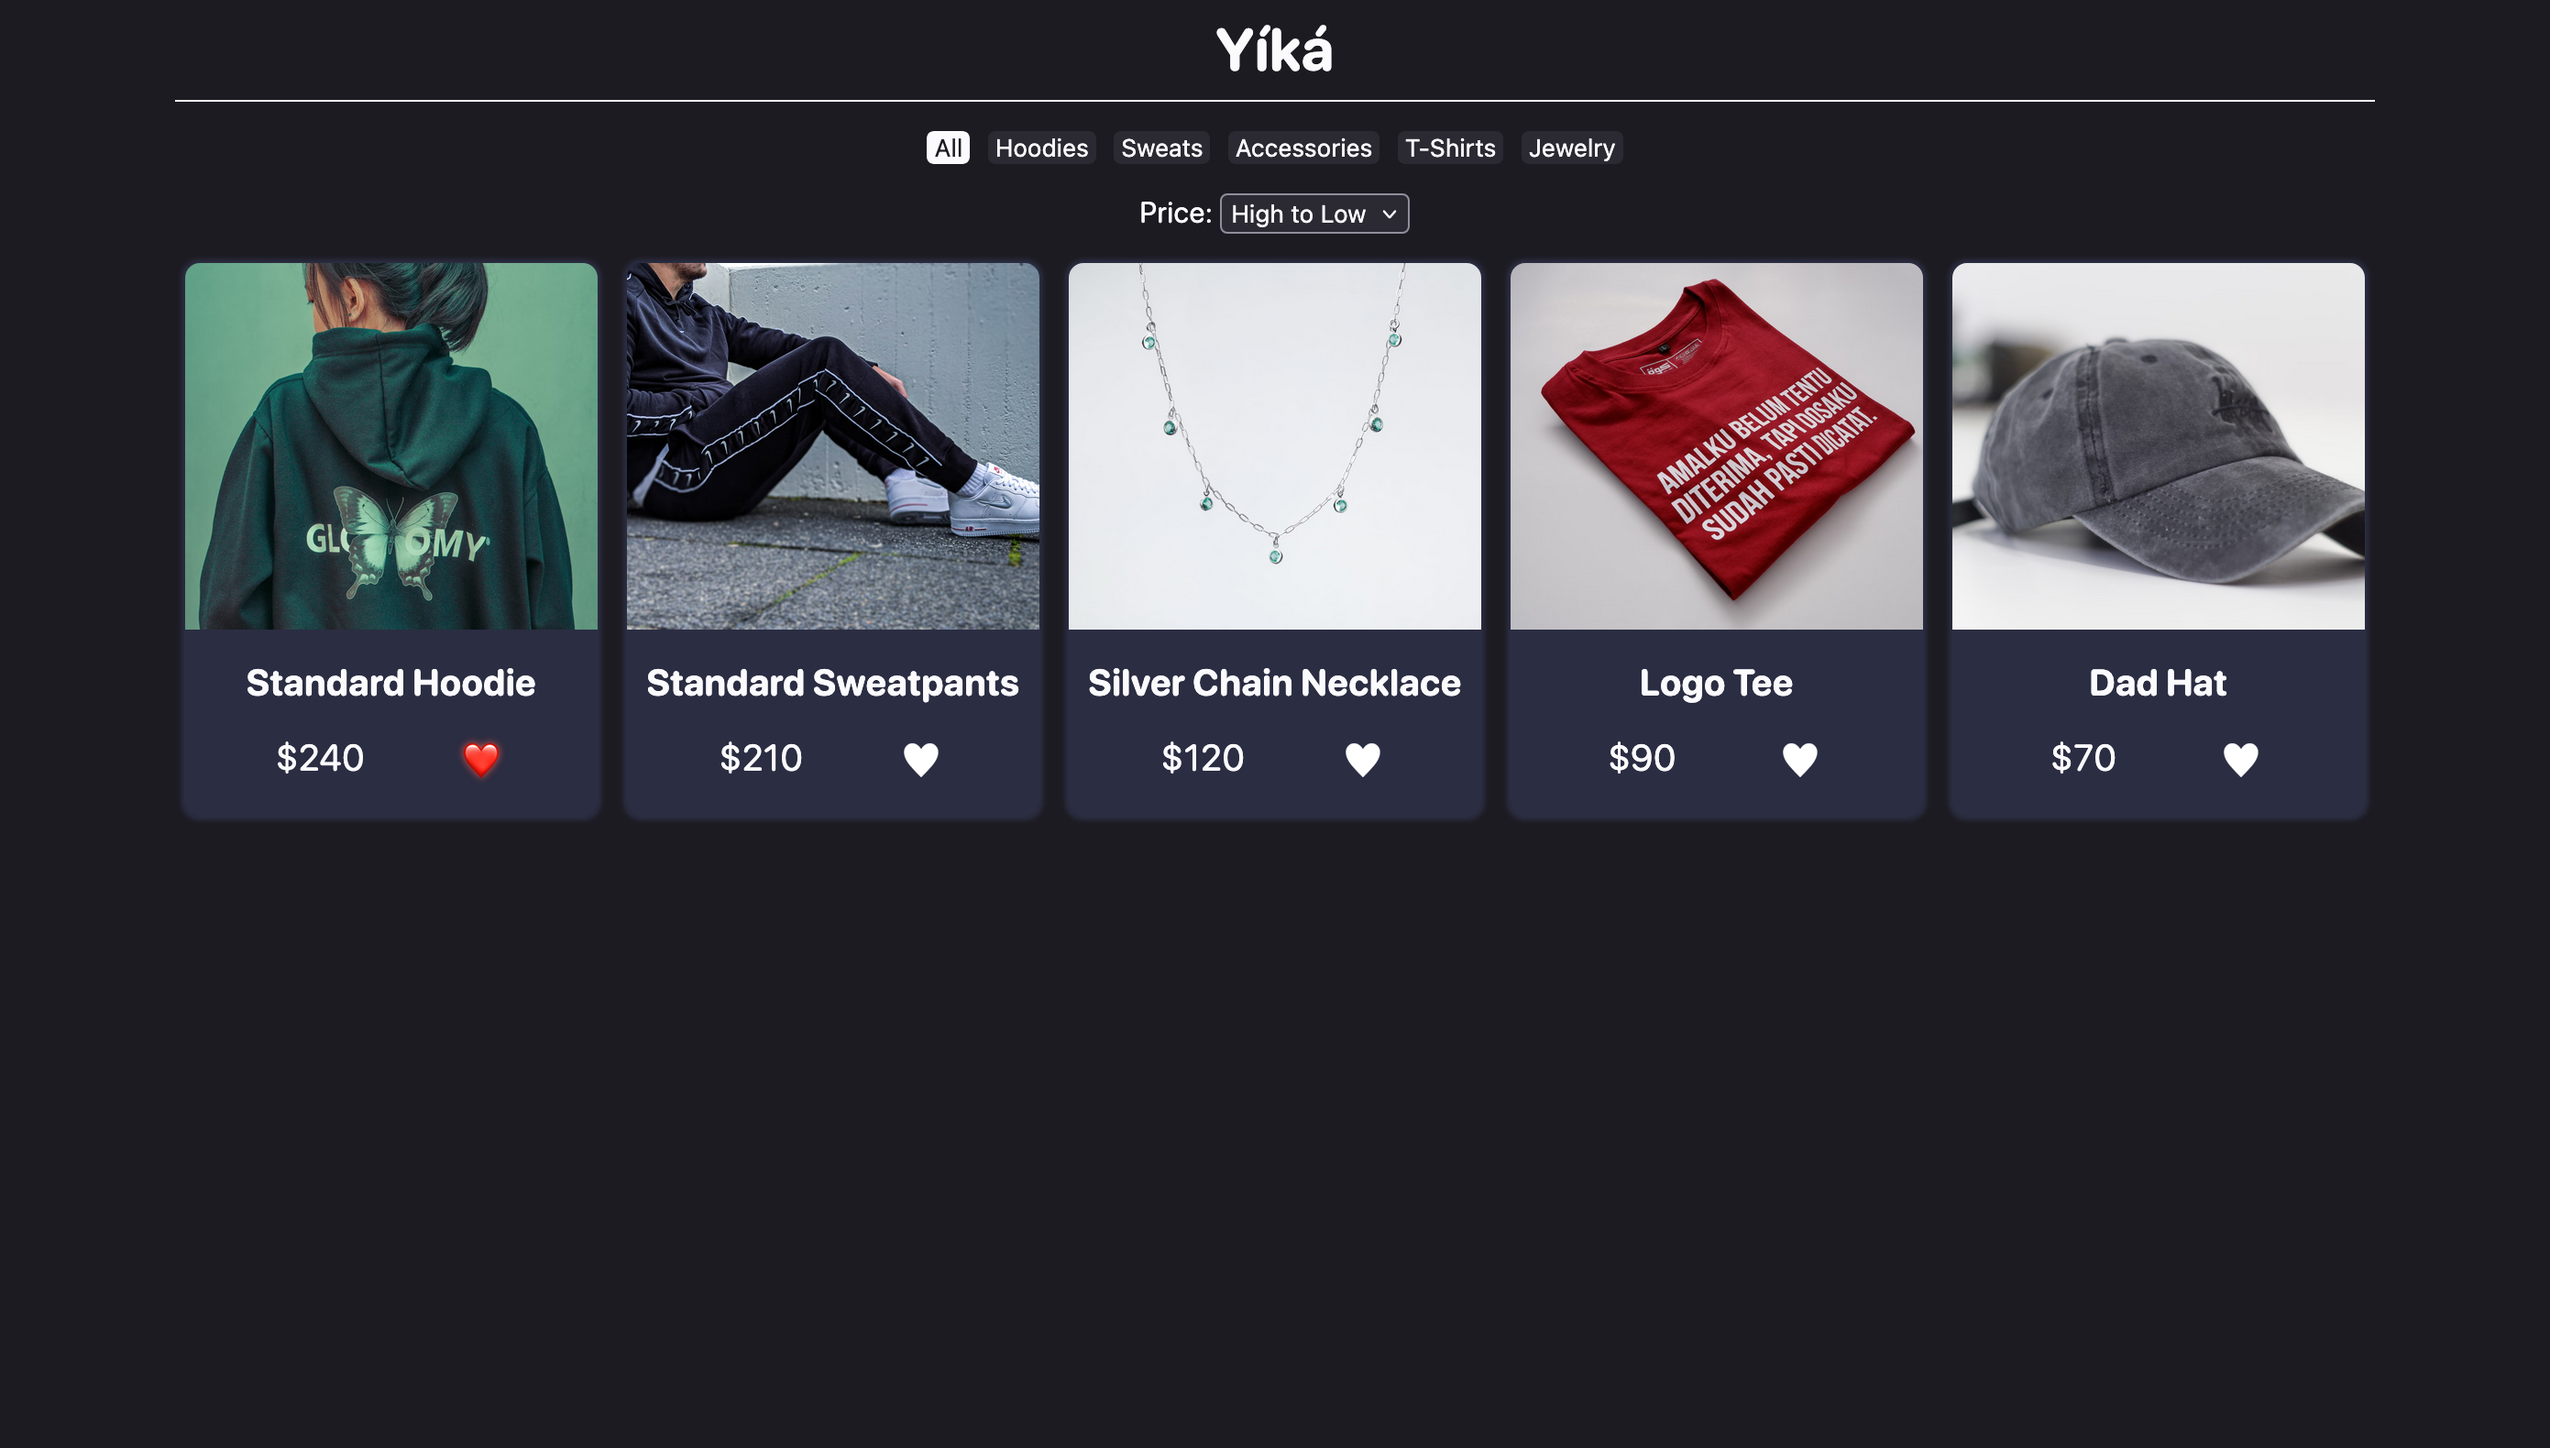
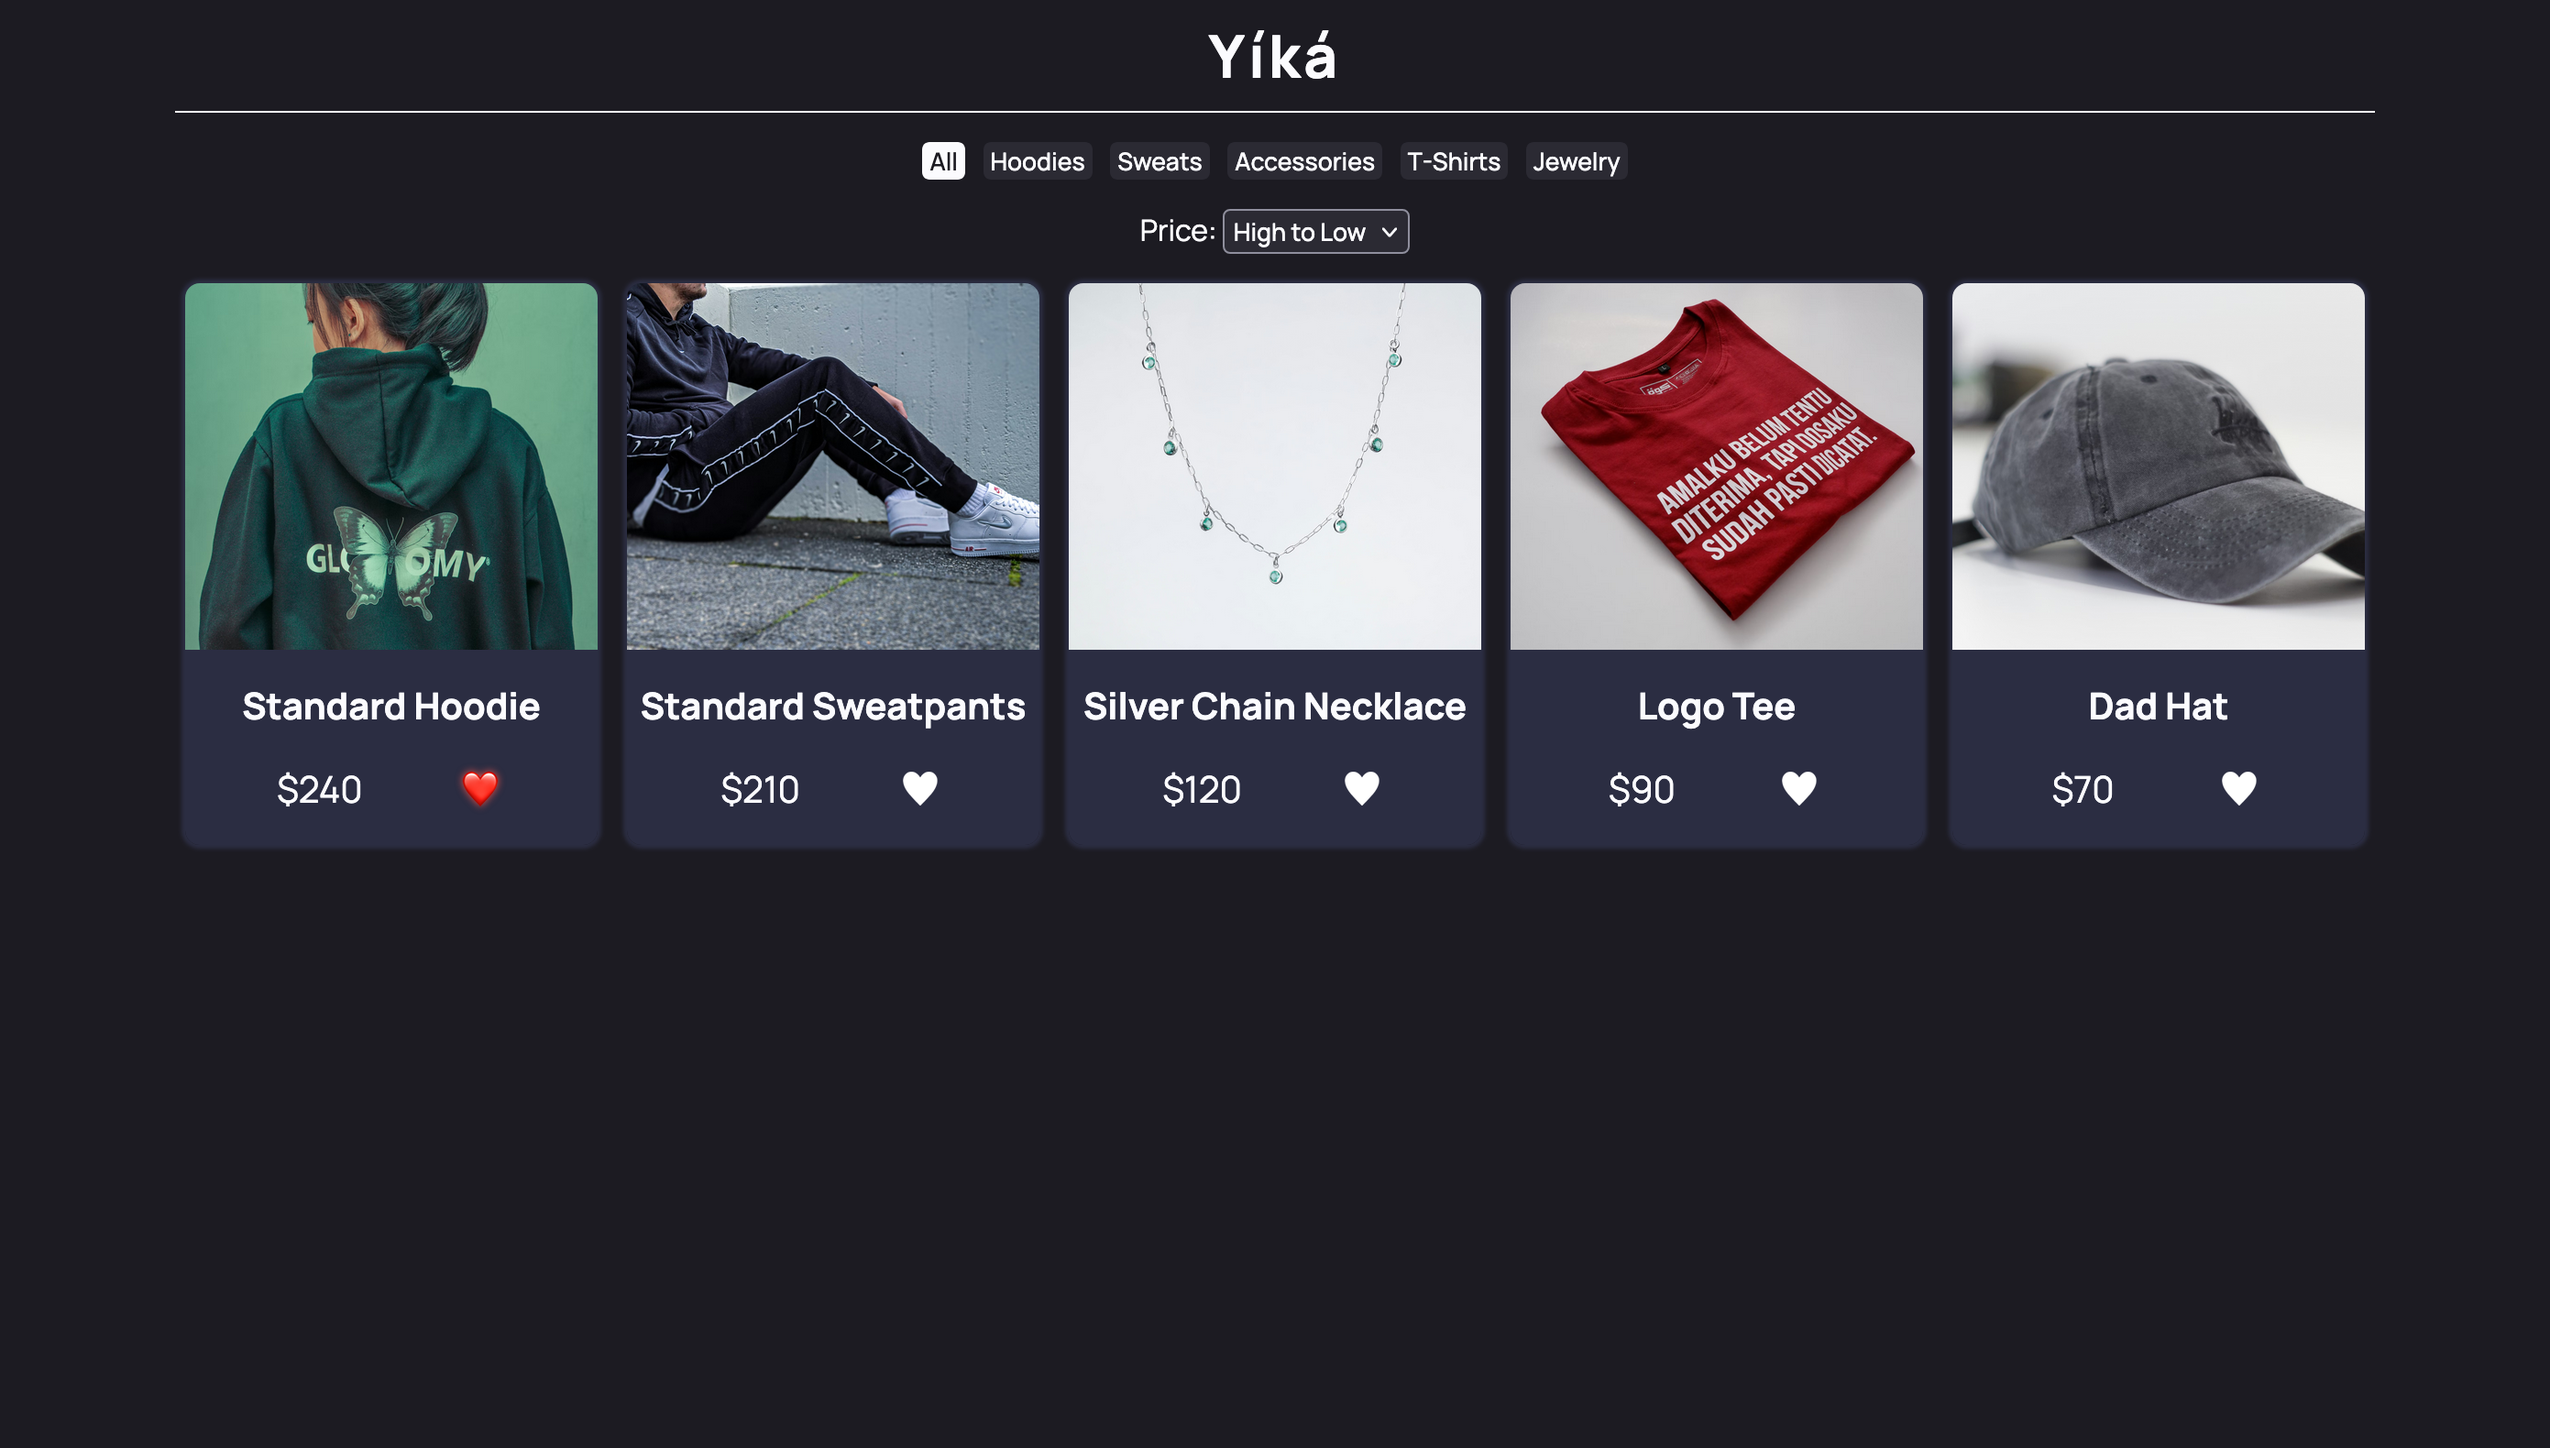
add font

diff --git a/src/index.css b/src/index.css
@@ -1,11 +1,13 @@
 body {
+  font-family: Manrope, system-ui, sans-serif;
   max-inline-size: 1200px;
   text-align: center;
   padding-inline: 16px;
-  margin: 0 auto 16px;
+  margin: 0 auto;
 }
 
 h1 {
+  letter-spacing: 2px;
   border-block-end: 1px solid;
   padding-block: 8px;
   margin-block: 0;
@@ -35,19 +37,25 @@ button {
   }
 }
 
+button,
+select {
+  font-family: inherit;
+  font-weight: 500;
+}
+
 .cards {
   display: grid;
   grid-template-columns: repeat(auto-fit, 225px);
   justify-content: center;
   gap: 16px;
-  margin-block-start: 16px;
+  margin-block: 16px;
 }
 
 .card {
-  --accent: light-dark(#d9d9d9, #2b2d42);
+  --background-colour: light-dark(#d9d9d9, #2b2d42);
   --border-radius: 8px;
-  background-color: var(--accent);
-  box-shadow: 0 0 2px 2px var(--accent);
+  background-color: var(--background-colour);
+  box-shadow: 0 0 2px 2px var(--background-colour);
   border-radius: var(--border-radius);
   padding-block-end: 16px;
 

diff --git a/index.html b/index.html
@@ -2,10 +2,13 @@
 <html lang="en-CA">
 
 <head>
-  <meta charset="UTF-8" />
-  <meta name="viewport" content="width=device-width, initial-scale=1.0" />
+  <meta charset="UTF-8">
+  <meta name="viewport" content="width=device-width, initial-scale=1.0">
   <meta name="color-scheme" content="light dark">
-  <link rel="icon" type="image/svg+xml" href="/vite.svg" />
+  <link href="https://fonts.googleapis.com" rel="preconnect">
+  <link href="https://fonts.gstatic.com" rel="preconnect" crossorigin>
+  <link href="https://fonts.googleapis.com/css2?family=Manrope:wght@200..800&display=swap" rel="stylesheet">
+  <link href="/vite.svg" rel="icon" type="image/svg+xml">
   <title>Yíká</title>
 </head>
 
